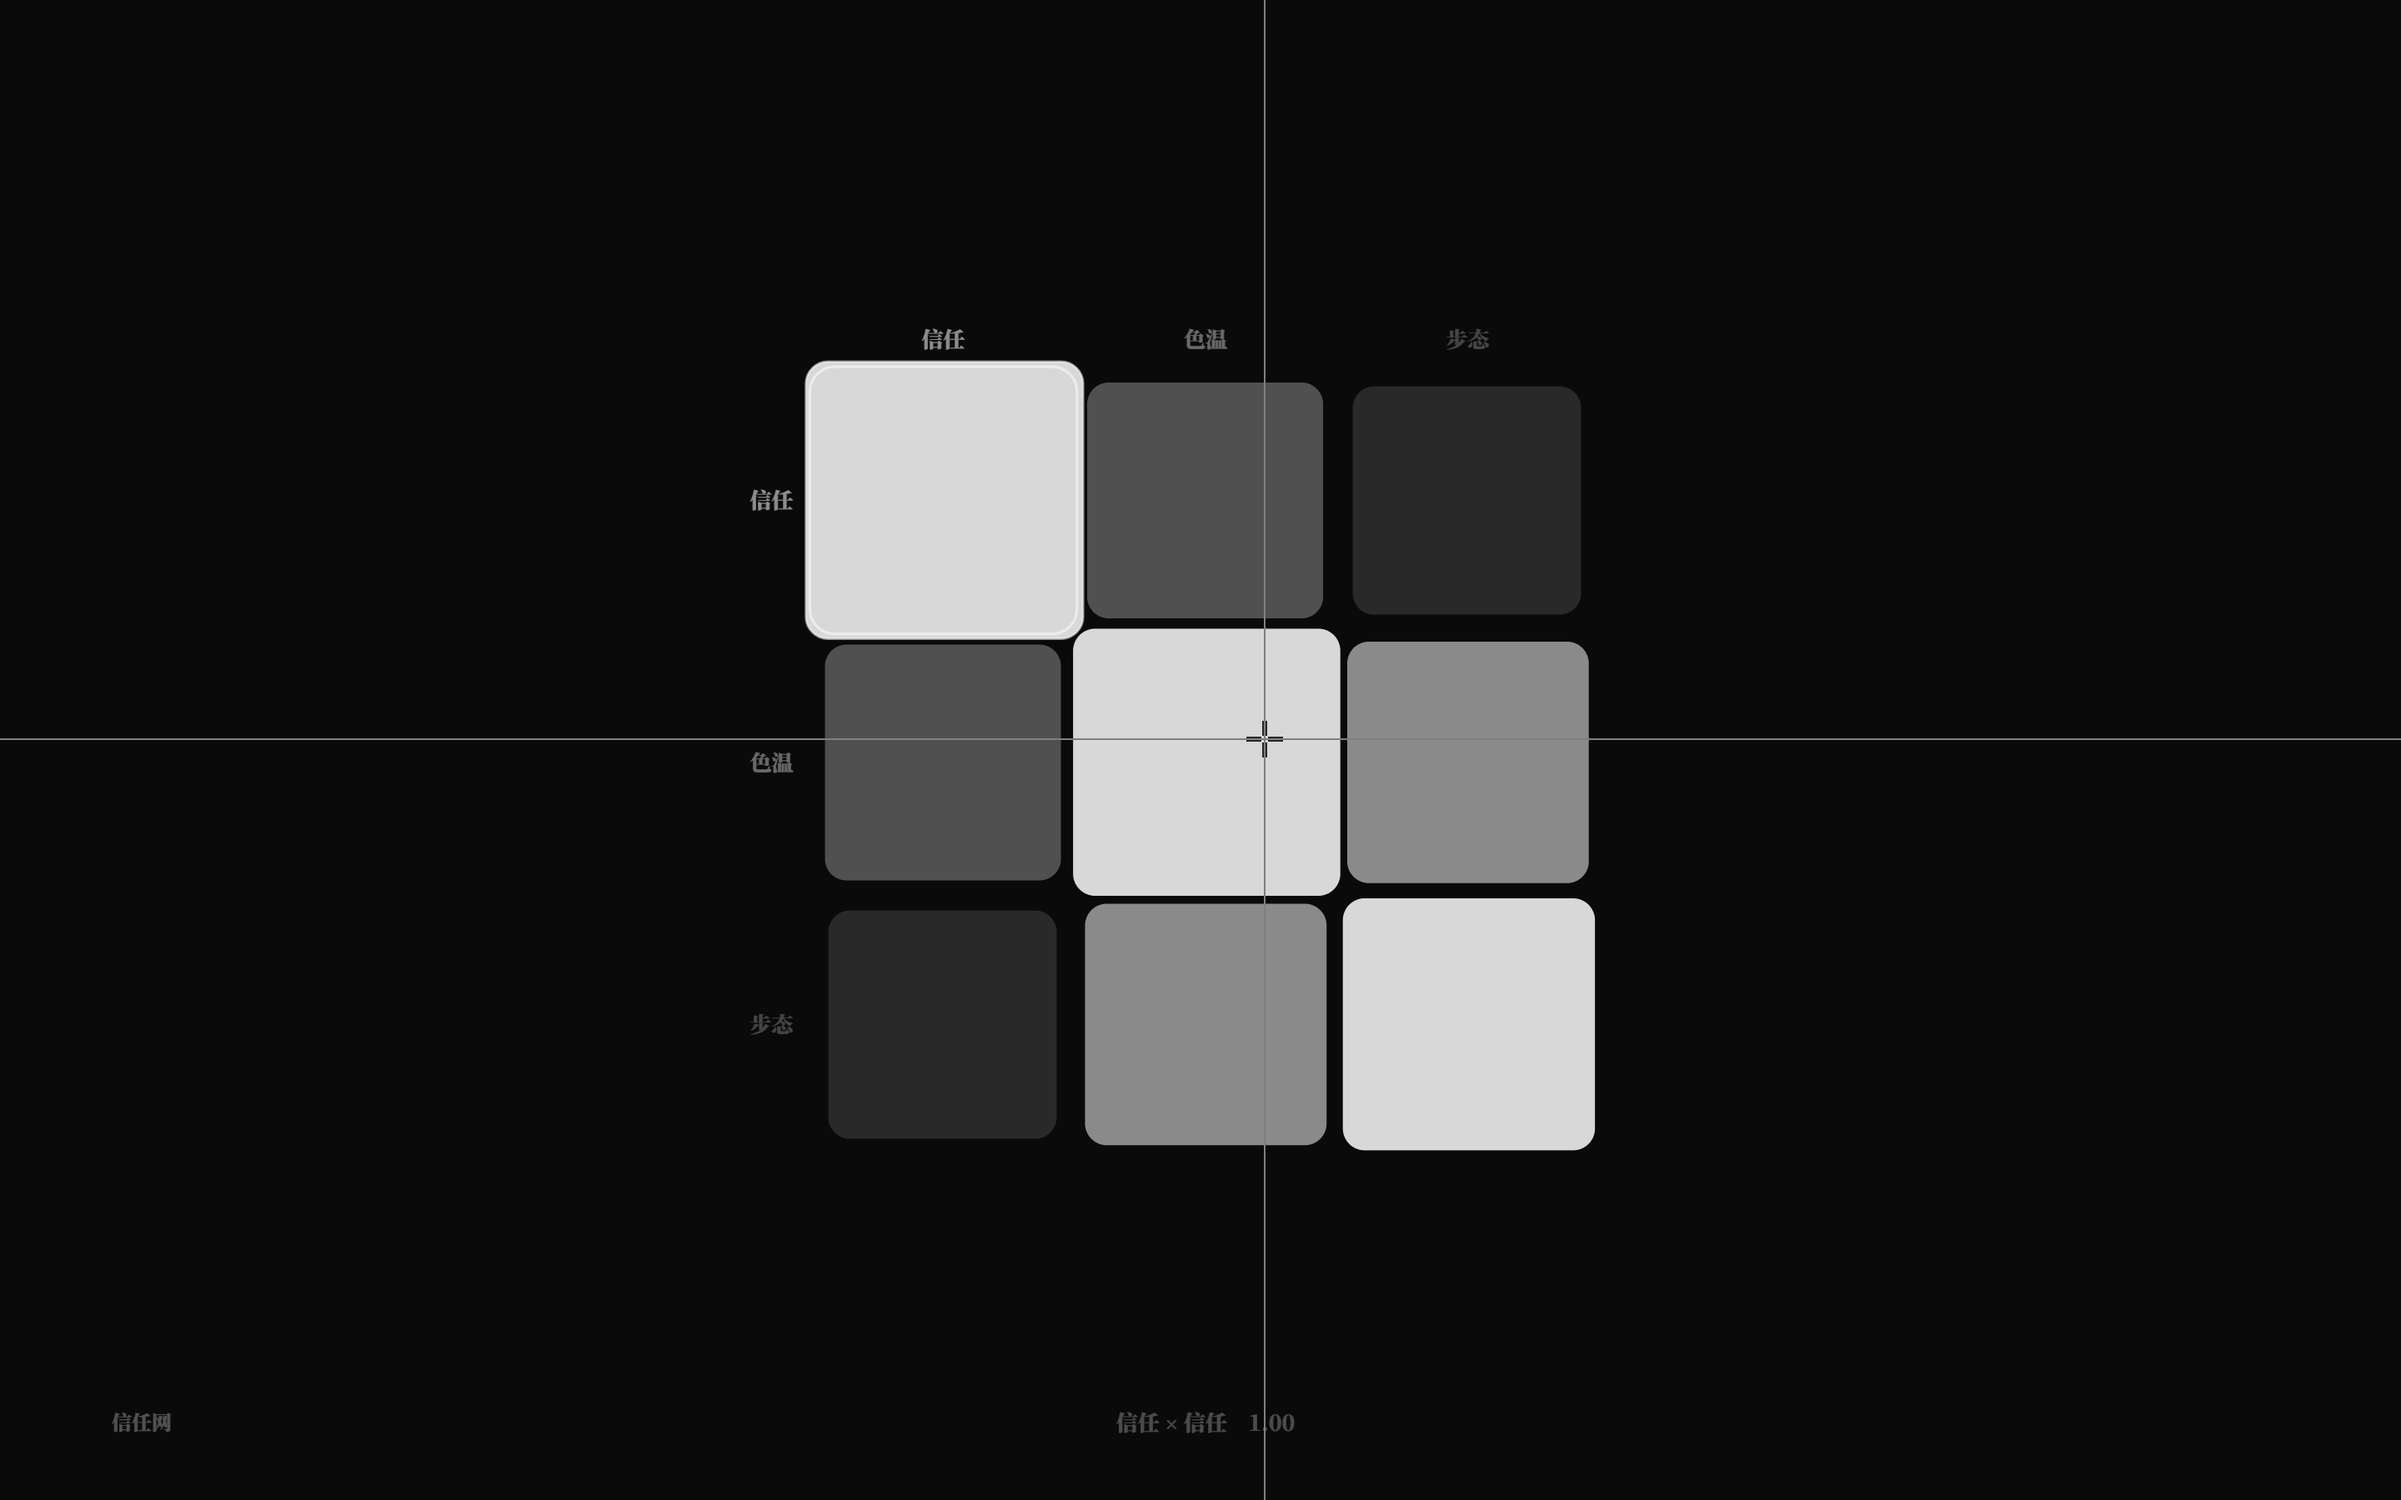
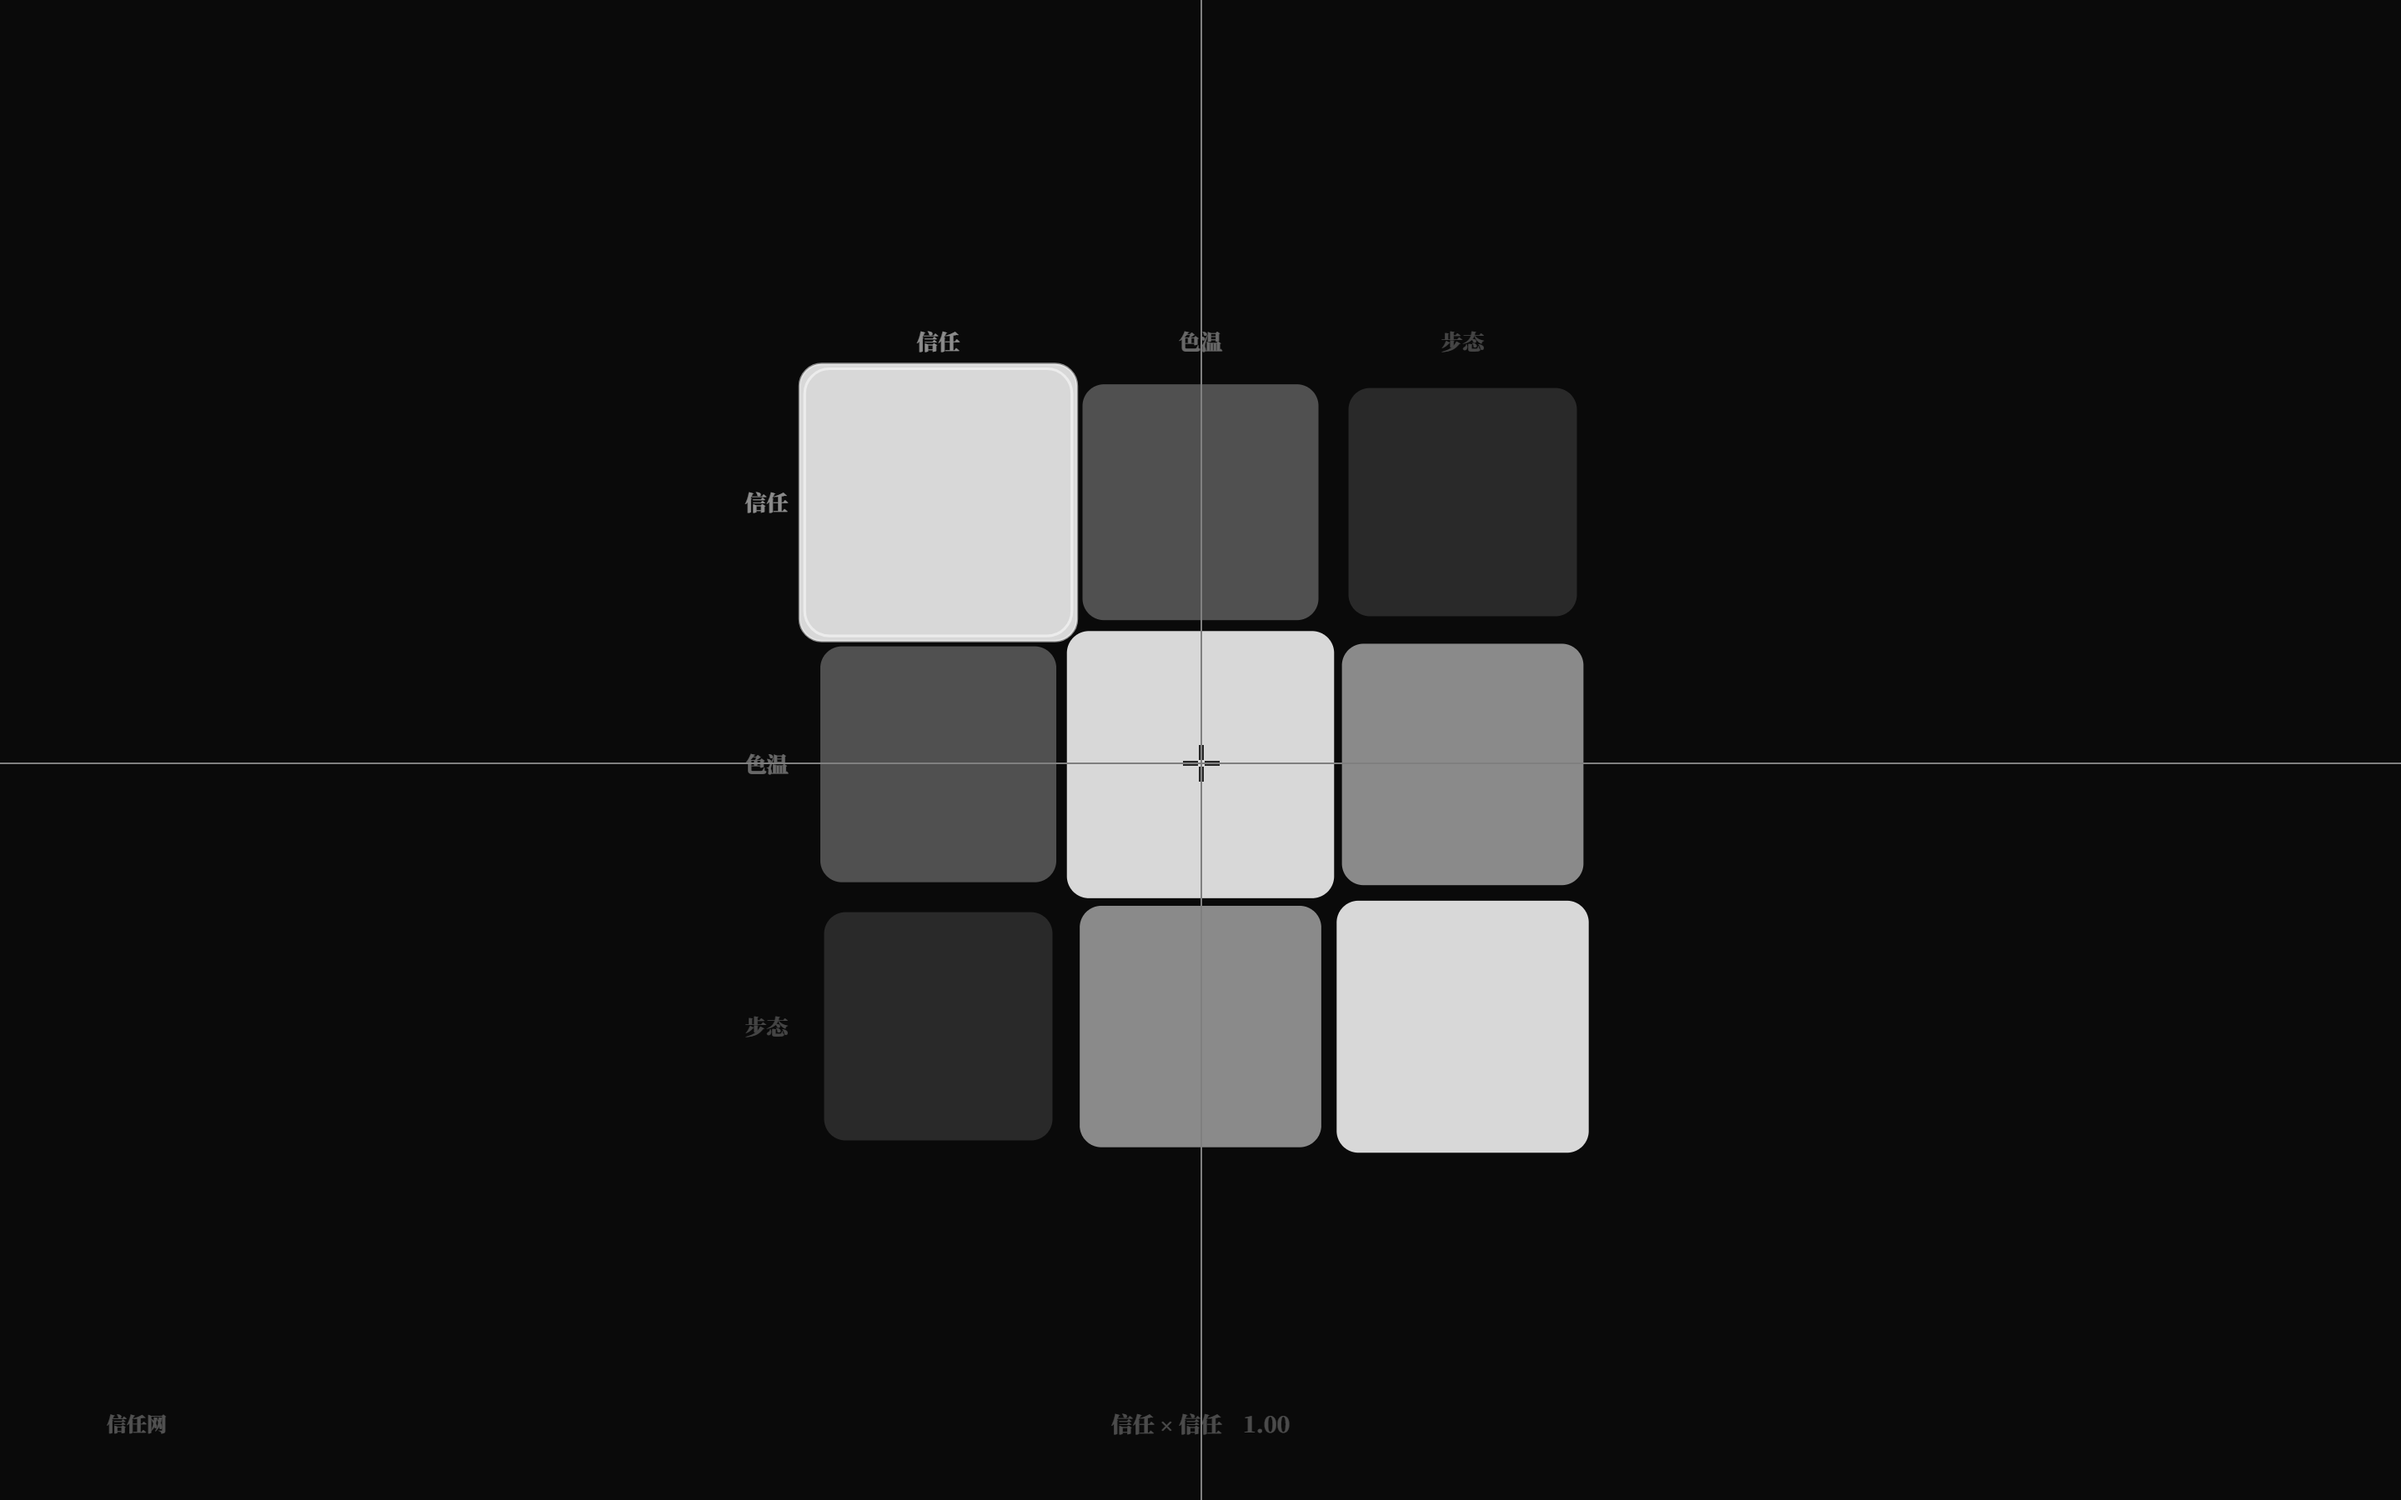
调律台 v2.2.4：大格覆盖小格的图层与命中顺序

diff --git a/packages/gui/src/MatrixField.tsx b/packages/gui/src/MatrixField.tsx
@@ -38,6 +38,8 @@ interface CellPosition {
   /** 该格相对未视差位置的实际位移（含亮度差速）。 */
   dx: number;
   dy: number;
+  /** 当前显示尺寸（基础尺寸 × 数值倍率 × hover/selected spring）。 */
+  size: number;
   value: number;
 }
 
@@ -528,7 +530,13 @@ export function MatrixField({ matrices, index, onCycleMatrix, onEditCell, onExit
       };
     }
 
-    /** 屏幕坐标 → 格子：按每格「亮度差速后的实际位置 + 实际尺寸」命中。 */
+    /** 每格当前显示尺寸：基础尺寸 × 亮度倍率 × hover/selected spring。 */
+    function cellDisplaySize(row: number, col: number, value: number): number {
+      const spring = scales[row]?.[col];
+      return layout.cell * valueScale(value) * (spring?.value ?? SCALE_BASE);
+    }
+
+    /** 屏幕坐标 → 格子：按绘制顺序（大→小）命中最上层的大格。 */
     function cellAtScreen(logicalX: number, logicalY: number, useParallax: boolean): CellRef | null {
       const matrix = currentMatrix();
       if (!matrix) return null;
@@ -536,27 +544,30 @@ export function MatrixField({ matrices, index, onCycleMatrix, onEditCell, onExit
       const cols = matrixCols(matrix);
       const groupX = useParallax ? parallaxX.value : 0;
       const groupY = useParallax ? parallaxY.value : 0;
-      let best: CellRef | null = null;
-      let bestDistance = Number.POSITIVE_INFINITY;
+      const candidates: Array<{ row: number; col: number; size: number; centerX: number; centerY: number }> = [];
       for (let r = 0; r < rows; r += 1) {
         for (let c = 0; c < cols; c += 1) {
           const value = displayed[r]?.[c] ?? 0;
           const factor = frozenFactors?.[r]?.[c] ?? valueParallaxFactor(value);
           const center = cellCenter(layout, r, c);
-          const centerX = center.x + groupX * factor;
-          const centerY = center.y + groupY * factor;
-          const half = (layout.cell * valueScale(value)) / 2 + HIT_TOLERANCE_PX;
-          const dx = logicalX - centerX;
-          const dy = logicalY - centerY;
-          if (Math.abs(dx) > half || Math.abs(dy) > half) continue;
-          const distance = dx * dx + dy * dy;
-          if (distance < bestDistance) {
-            bestDistance = distance;
-            best = { row: r, col: c };
-          }
+          candidates.push({
+            row: r,
+            col: c,
+            size: cellDisplaySize(r, c, value),
+            centerX: center.x + groupX * factor,
+            centerY: center.y + groupY * factor,
+          });
         }
       }
-      return best;
+      // 大格先命中：重叠区命中最上层大格。
+      candidates.sort((a, b) => b.size - a.size);
+      for (const candidate of candidates) {
+        const half = candidate.size / 2 + HIT_TOLERANCE_PX;
+        if (Math.abs(logicalX - candidate.centerX) <= half && Math.abs(logicalY - candidate.centerY) <= half) {
+          return { row: candidate.row, col: candidate.col };
+        }
+      }
+      return null;
     }
 
     /** 屏幕坐标 → 格子：先按当前视差命中，视差弹簧未追上时退回未平移坐标。 */
@@ -853,31 +864,45 @@ export function MatrixField({ matrices, index, onCycleMatrix, onEditCell, onExit
       ctx.scale(scale, scale);
       ctx.translate(-LOGICAL_W / 2, -LOGICAL_H / 2);
 
-      // 格子：尺寸随亮度（0.94..1.05），视差位移随亮度差速（0.78..1.22 × 组 offset）。
+      // 格子：按当前显示尺寸从小到大绘制（大格后画、盖住小格）；选中描边随格一起画，不强制置顶。
+      const cells: Array<{
+        row: number;
+        col: number;
+        value: number;
+        size: number;
+        centerX: number;
+        centerY: number;
+        isSelected: boolean;
+      }> = [];
       for (let r = 0; r < rows; r += 1) {
         for (let c = 0; c < cols; c += 1) {
           const base = cellCenter(layout, r, c);
-          const spring = scales[r]?.[c];
           const value = displayed[r]?.[c] ?? 0;
           const factor = frozenFactors?.[r]?.[c] ?? valueParallaxFactor(value);
-          const centerX = base.x + parallaxX.value * factor;
-          const centerY = base.y + parallaxY.value * factor;
-          const isSelected = selected !== null && selected.row === r && selected.col === c;
-          const cellScale = (spring?.value ?? SCALE_BASE) * valueScale(value);
-          drawCell(centerX, centerY, value, cellScale, isSelected);
+          cells.push({
+            row: r,
+            col: c,
+            value,
+            size: cellDisplaySize(r, c, value),
+            centerX: base.x + parallaxX.value * factor,
+            centerY: base.y + parallaxY.value * factor,
+            isSelected: selected !== null && selected.row === r && selected.col === c,
+          });
         }
       }
-
-      // 选中框：弹簧滑动位置（跟组 offset，不跟格子差速）
-      if (selected) {
-        const selectedValue = displayed[selected.row]?.[selected.col] ?? 0;
-        const size = layout.cell * valueScale(selectedValue) * 1.06;
-        const radius = layout.radius + 2;
-        ctx.strokeStyle = rgba(LABEL_RGB, 0.7);
-        ctx.lineWidth = 1.6;
-        ctx.beginPath();
-        ctx.roundRect(selectionX.value - size / 2, selectionY.value - size / 2, size, size, radius);
-        ctx.stroke();
+      cells.sort((a, b) => a.size - b.size || a.row - b.row || a.col - b.col);
+      for (const cell of cells) {
+        drawCell(cell.centerX, cell.centerY, cell.value, cell.size / layout.cell, cell.isSelected);
+        if (cell.isSelected) {
+          // 选中框紧跟在选中格之后画，因此会被之后更大的格子盖住（不再强制置顶）。
+          const ringSize = layout.cell * valueScale(cell.value) * 1.06;
+          const radius = layout.radius + 2;
+          ctx.strokeStyle = rgba(LABEL_RGB, 0.7);
+          ctx.lineWidth = 1.6;
+          ctx.beginPath();
+          ctx.roundRect(selectionX.value - ringSize / 2, selectionY.value - ringSize / 2, ringSize, ringSize, radius);
+          ctx.stroke();
+        }
       }
 
       // 行标签（左侧）：跟组 offset
@@ -1073,6 +1098,7 @@ export function MatrixField({ matrices, index, onCycleMatrix, onEditCell, onExit
               y: Math.round((center.y + dy) * 100) / 100,
               dx: Math.round(dx * 100) / 100,
               dy: Math.round(dy * 100) / 100,
+              size: Math.round(cellDisplaySize(r, c, value) * 100) / 100,
               value: round4(value),
             });
           }

diff --git a/docs/25-关系谱GUI.md b/docs/25-关系谱GUI.md
@@ -31,6 +31,11 @@
 - **伪 3D 深度（v2.2.3）**：格子基础尺寸随数值 0.94..1.05 倍（越白越大，差异克制）；
   每格视差位移 = 组偏移 × (0.78 + value×0.44)（越白移动越快，黑约 0.78×、白约 1.22×），
   行列标签/选中框仍跟组偏移。高值格与低值格差速约 12px，形成静止时的层次与移动时的视差纵深。
+- **图层顺序（v2.2.4）**：每帧按当前显示尺寸从小到大绘制 → **大格始终覆盖小格**；
+  命中检测同序从大到小，重叠区域命中最上层的大格；行列标签/矩阵名/光标仍在最上层。
+  选中描边跟随选中格，不强制置顶（保持深度一致）。
+
+![大格覆盖小格](assets/25-matrix-layers.png)
 
 ![视差与反色光标](assets/25-matrix-parallax.png)
 
@@ -60,7 +65,7 @@
 ## 5. 验收
 
 - `pnpm test` **207/207**（矩阵 core 18 + 矩阵写回 3 + 其余）；
-- `pnpm test:gui` **161/161**：F3 进入、3×3 值、视差跟随、伪 3D 差速、中心无偏移+光标存在、九格可定位、拖动改值+写回、Ctrl+Z、F3 退出；既有 151 项不回归；
+- `pnpm test:gui` **162/162**：F3 进入、3×3 值、视差跟随、伪 3D 差速、大格覆盖层、中心无偏移+光标存在、九格可定位、拖动改值+写回、Ctrl+Z、F3 退出；既有 151 项不回归；
 - `check` / `check:gui` / `build` 通过；GUI 截图由 `artifacts/shot-matrix.mjs` 生成。
 
 ![关系谱悬停](assets/25-matrix-hover.png)
